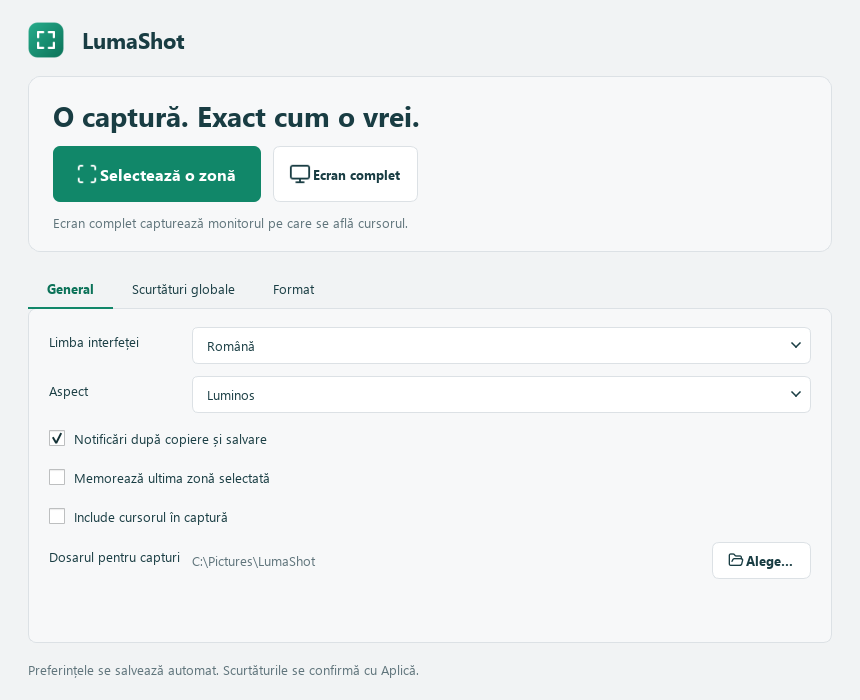
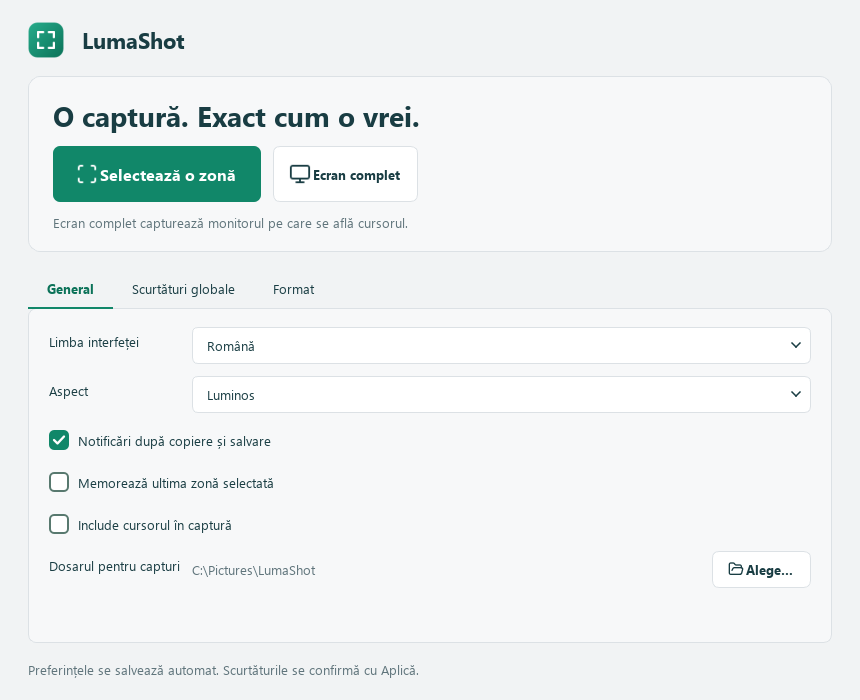
Add files via upload

Changed region(s): [[0.0605, 0.6, 0.3628, 0.84], [0.8465, 0.78, 0.9372, 0.84]]

diff --git a/LumaShot.py b/LumaShot.py
@@ -868,6 +868,7 @@ from PySide6.QtWidgets import (
     QApplication, QComboBox, QFileDialog, QFrame, QHBoxLayout, QLabel,
     QMainWindow, QMenu, QMessageBox, QPushButton, QSystemTrayIcon,
     QVBoxLayout, QWidget, QKeySequenceEdit, QTabWidget, QCheckBox, QFormLayout, QSlider, QToolTip,
+    QStyle, QStyleOptionButton,
 )
 
 # Accent and light surfaces follow RTLite 3.2.8's palette.
@@ -919,6 +920,7 @@ QTabBar::tab {{ background: transparent; padding: 10px 19px; border-bottom: 2px 
 QTabBar::tab:selected {{ color: {c['accent_text']}; border-bottom: 2px solid {c['accent']}; font-weight: 600; }}
 QCheckBox {{ spacing: 9px; padding: 5px 0; }}
 QCheckBox::indicator {{ width: 16px; height: 16px; }}
+ContrastCheckBox::indicator {{ width: 20px; height: 20px; background: transparent; border: none; }}
 QSpinBox {{ background: {c['input']}; border: 1px solid {c['border']}; border-radius: 5px; padding: 6px; }}
 QSpinBox::up-button, QSpinBox::down-button {{ border: none; width: 18px; }}
 QWidget:disabled {{ color: {c['muted']}; }}
@@ -1155,6 +1157,37 @@ def capture_cursor(pixmap):
             user.DestroyIcon(icon)
 
 
+class ContrastCheckBox(QCheckBox):
+    """Keep native checkbox interaction and draw a clear, scalable indicator."""
+    def paintEvent(self, event):
+        super().paintEvent(event)
+        option = QStyleOptionButton()
+        self.initStyleOption(option)
+        rect = self.style().subElementRect(QStyle.SubElement.SE_CheckBoxIndicator, option, self)
+        dark = self.palette().color(QPalette.ColorRole.Window).lightness() < 128
+        border = "#9bbdb3" if dark else "#58796f"
+        if option.state & QStyle.StateFlag.State_MouseOver:
+            border = "#7ad7ba" if dark else "#0b7258"
+        painter = QPainter(self)
+        painter.setRenderHint(QPainter.RenderHint.Antialiasing)
+        if not self.isEnabled():
+            painter.setOpacity(0.5)
+        painter.translate(rect.topLeft())
+        painter.scale(rect.width() / 20, rect.height() / 20)
+        painter.setPen(QPen(QColor("#118769" if self.isChecked() else border), 2))
+        painter.setBrush(QColor("#118769") if self.isChecked()
+                         else self.palette().color(QPalette.ColorRole.Base))
+        painter.drawRoundedRect(QRectF(1, 1, 18, 18), 4, 4)
+        if self.isChecked():
+            painter.setPen(QPen(QColor("white"), 2.3, Qt.PenStyle.SolidLine,
+                                Qt.PenCapStyle.RoundCap, Qt.PenJoinStyle.RoundJoin))
+            tick = QPainterPath(QPointF(5, 10))
+            tick.lineTo(8.5, 13.5)
+            tick.lineTo(15, 6.5)
+            painter.drawPath(tick)
+        painter.end()
+
+
 class ChoiceBox(QComboBox):
     """A consistent vector chevron in both themes, without extra image files."""
     def paintEvent(self, event):
@@ -1284,7 +1317,7 @@ class MainWindow(QMainWindow):
             lambda index: self.change_theme(self.theme_combo.itemData(index)))
         form.addRow(self.t("theme"), self.theme_combo)
         for key, default in (("notifications", True), ("remember_area", False), ("include_cursor", False)):
-            checkbox = QCheckBox(self.t(key))
+            checkbox = ContrastCheckBox(self.t(key))
             checkbox.setToolTip(wrapped_tip(self.t("tip_" + key)))
             checkbox.setChecked(self.option(key, default))
             checkbox.toggled.connect(lambda checked, k=key: self.settings.setValue(k, checked))
@@ -1311,7 +1344,7 @@ class MainWindow(QMainWindow):
             prefix = "full" if full else "capture"
             key = "full_hotkey" if full else "hotkey_label"
             row = QHBoxLayout()
-            enabled = QCheckBox(self.t(key))
+            enabled = ContrastCheckBox(self.t(key))
             enabled.setToolTip(wrapped_tip(self.t("tip_enable_hotkey")))
             enabled.setChecked(self.option(prefix + "_hotkey_enabled", not full))
             row.addWidget(enabled, 1)
